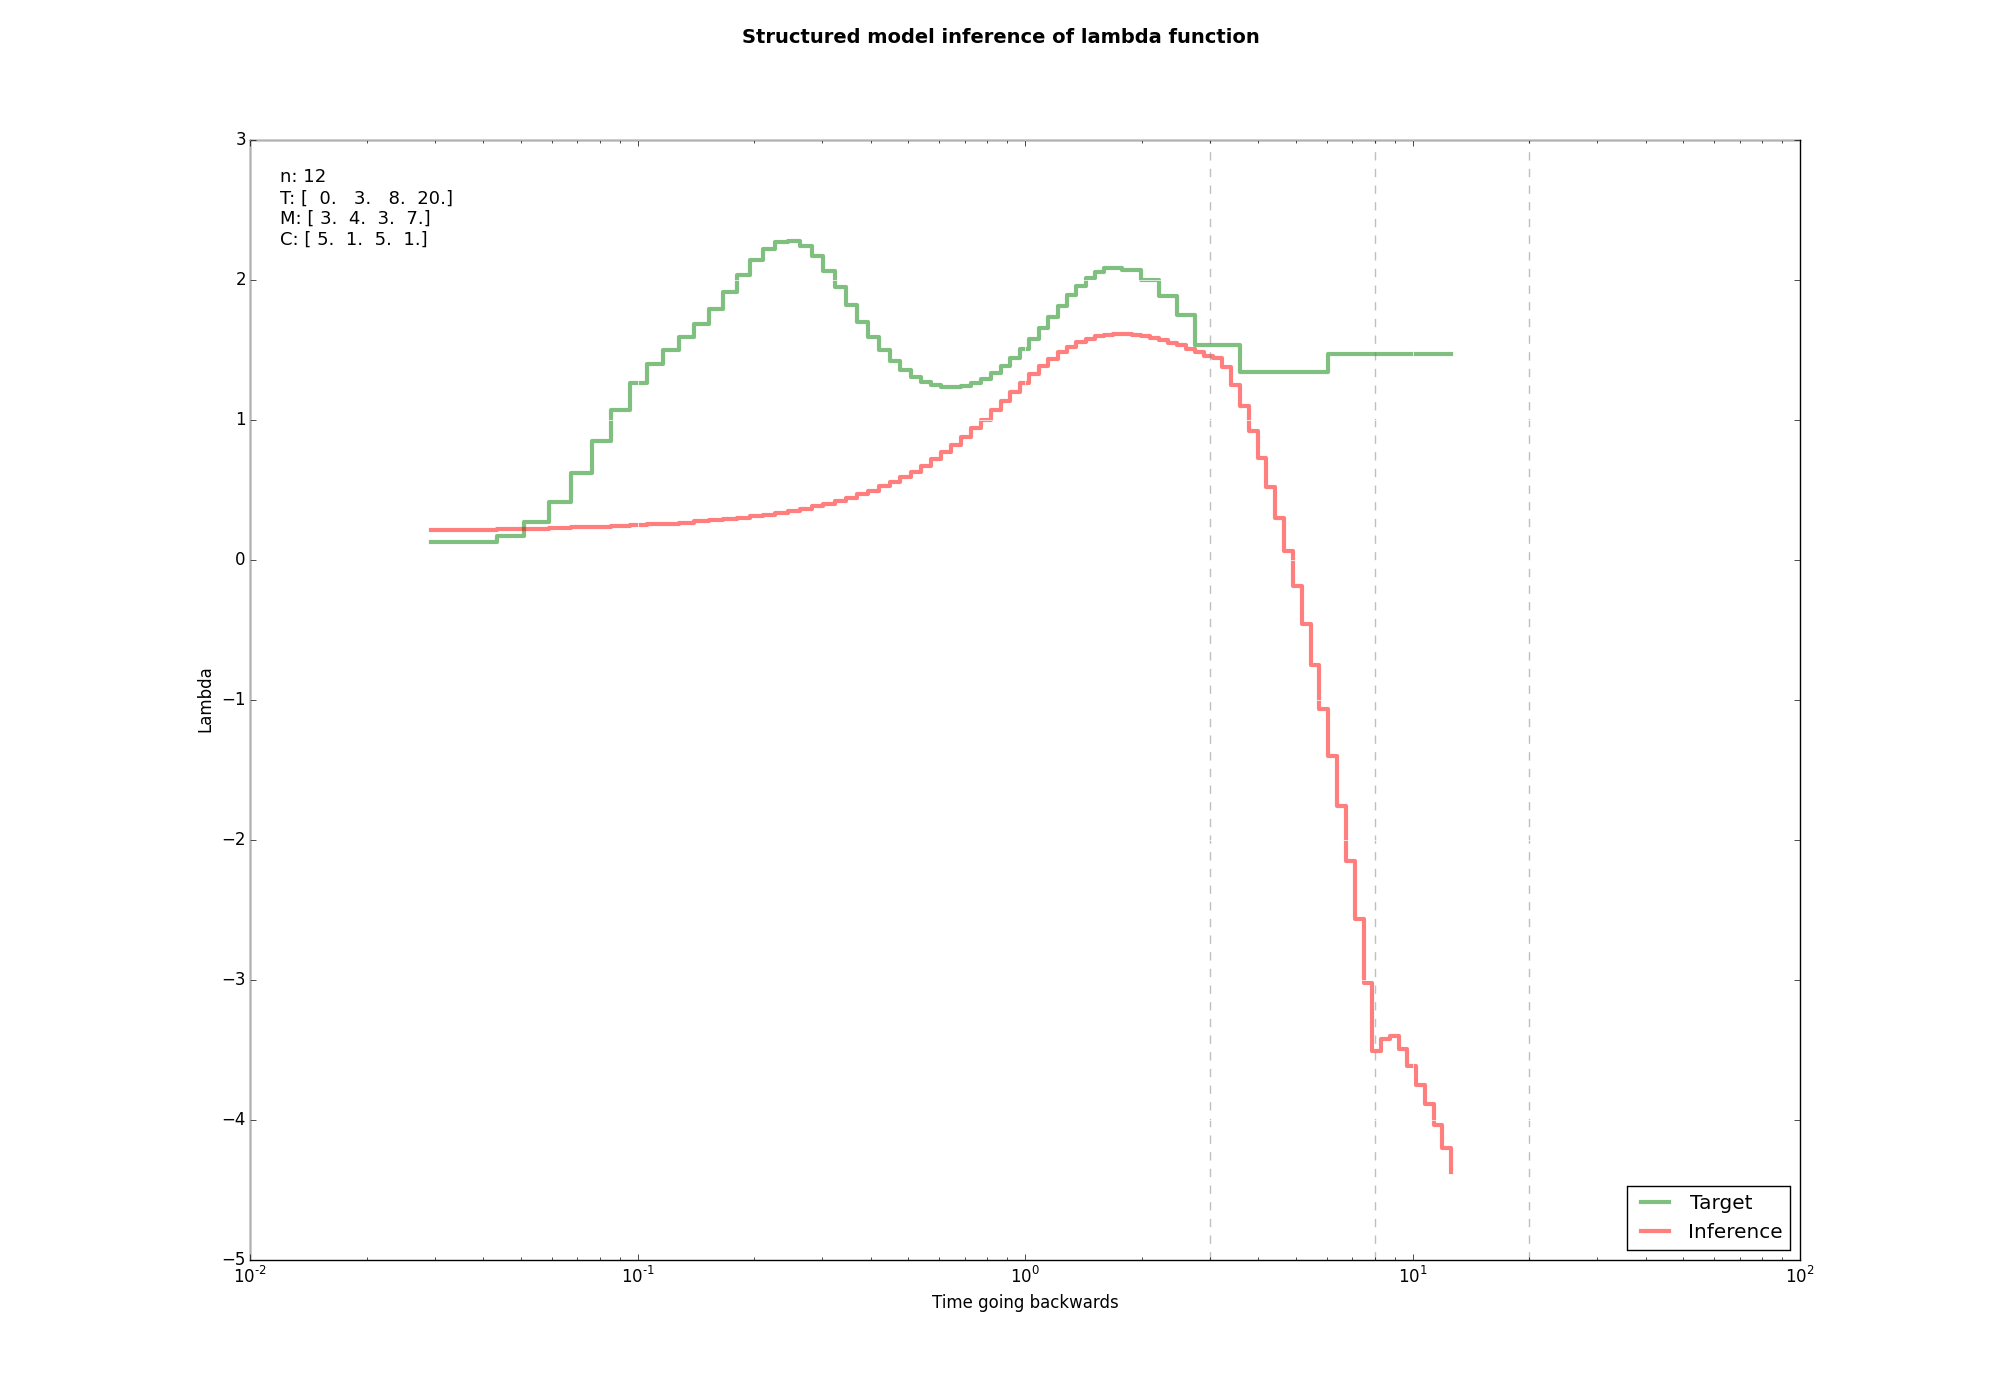
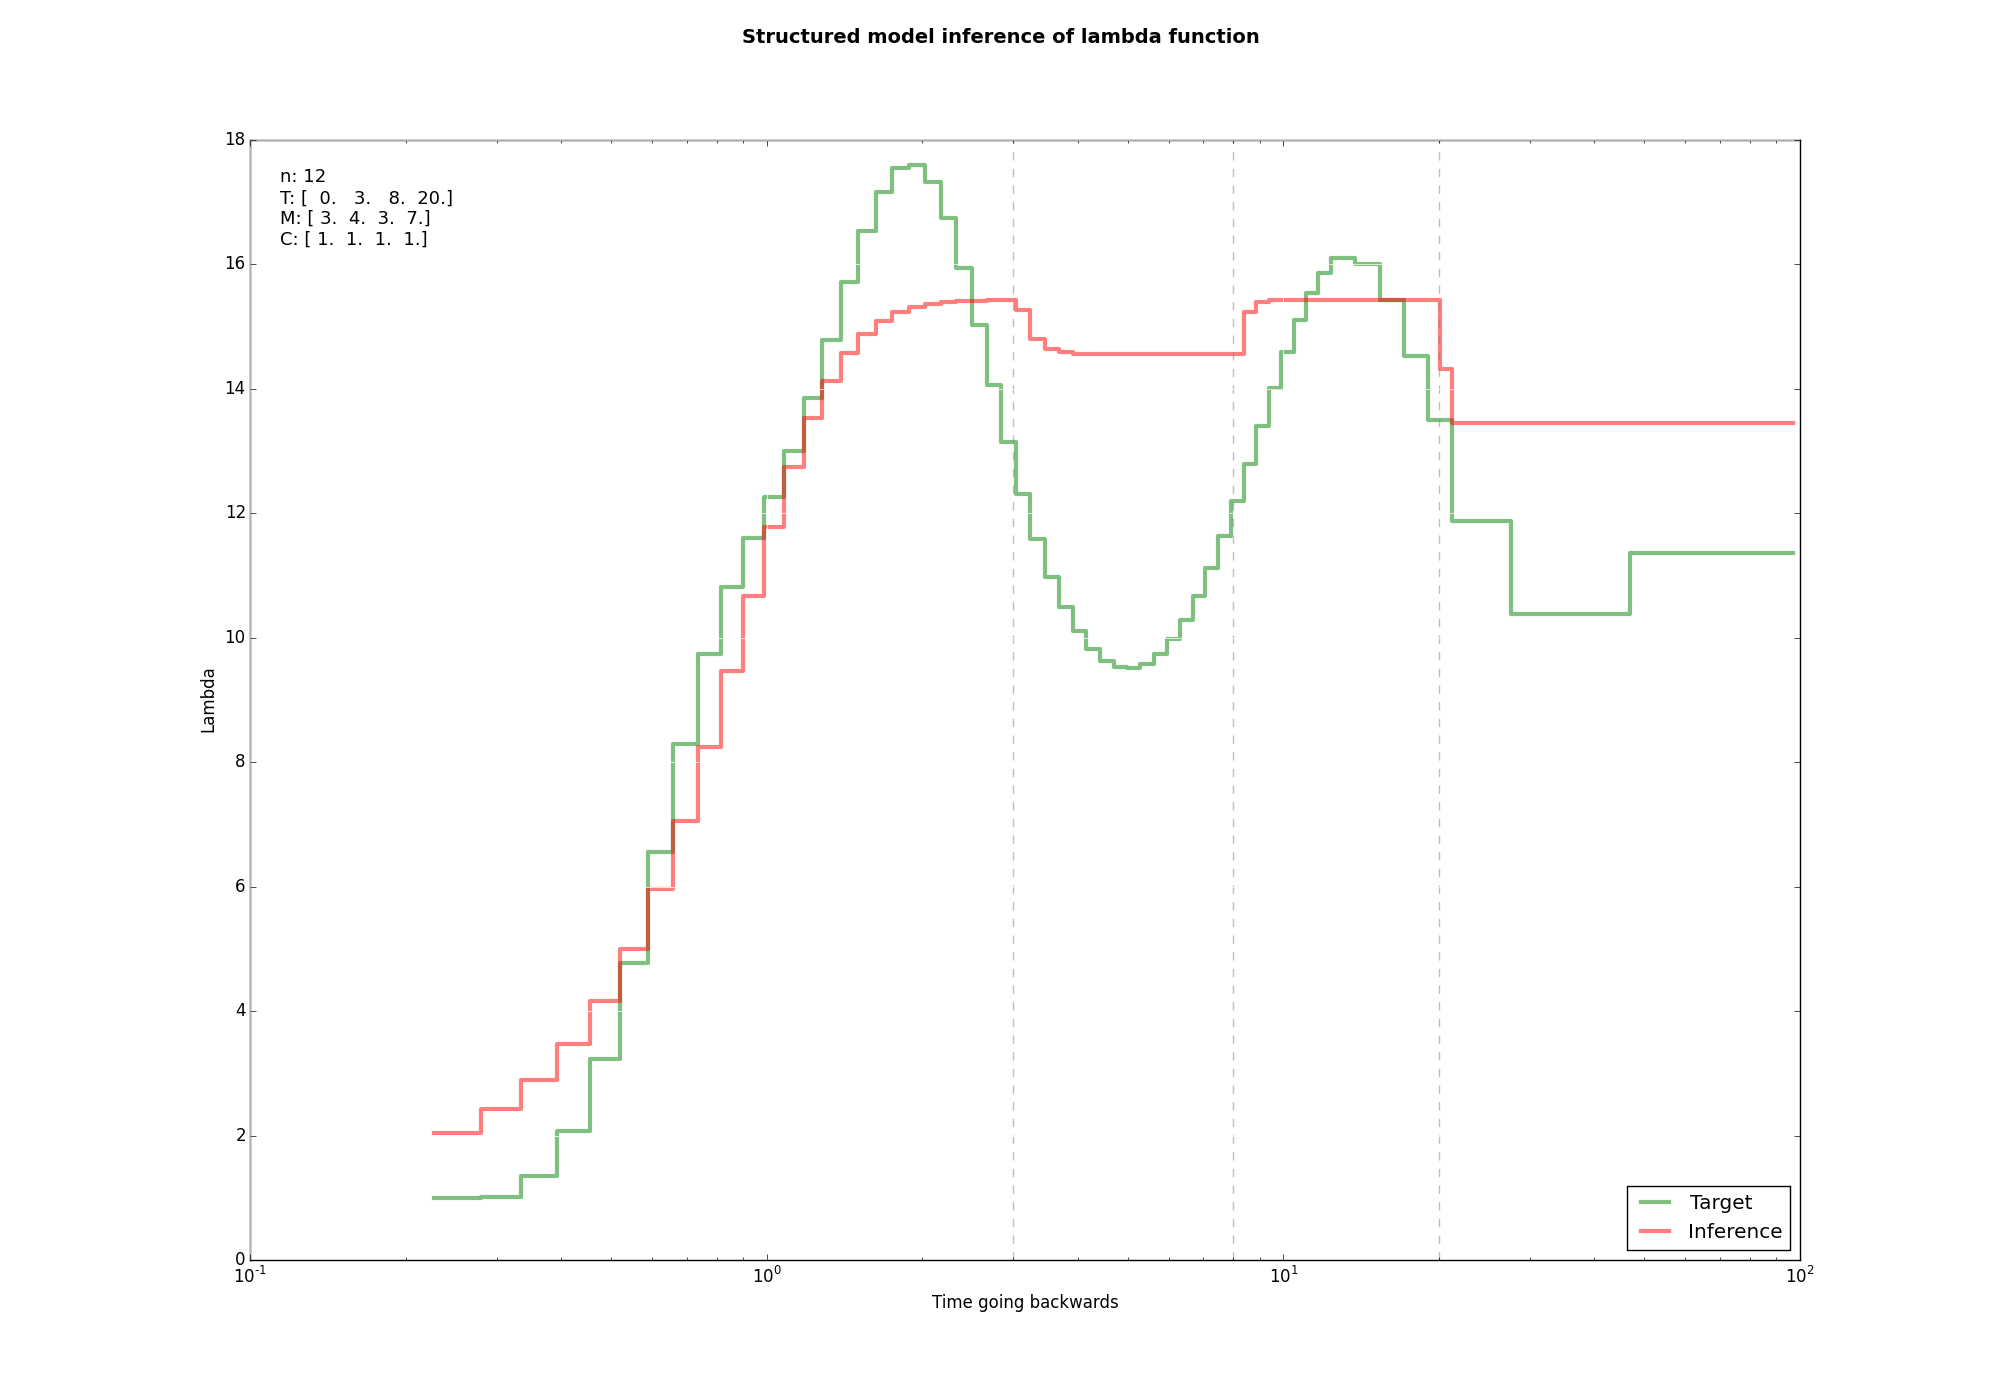
Can normalize with the manual.py script

diff --git a/manual.py b/manual.py
@@ -8,10 +8,14 @@ parser = argparse.ArgumentParser()
 
 # Version
 parser.add_argument('-v', '--version', action='version',
-                    version='%(prog)s 1.0')
+                    version='%(prog)s 1.1')
 # PSMC file
 parser.add_argument('file', type=str,
                       help='Pathname of directory to analyze.')
+# Normalization
+parser.add_argument('-l', action='store', dest='normalize', type=bool,
+                    help='Normalize the PSMC data so that the first lambda is 1.')
+
 # Islands
 parser.add_argument('-n', action='store',
                     dest='islands', type=int, help='Number of islands.')
@@ -25,8 +29,8 @@ parser.add_argument('-M', nargs='+', dest='rates',
 parser.add_argument('-C', nargs='+', dest='sizes',
                     help='Population sizes.', type=float)
 # Plot and JSON
-parser.add_argument('-k', action='store', dest='keep', type=str,
-                    default='False',
+parser.add_argument('-k', action='store', dest='keep', type=bool,
+                    default=False,
                     help="""Set to True to save the fit as a plot and a
                             JSON file.""")
 # Outfile
@@ -41,19 +45,20 @@ data.columns = ('times', 'lambdas')
 times, lambdas = tools.search_increase(list(data['times']),
                                        list(data['lambdas']))
 
-# Normalize the vectors
-#l0 = 1 / lambdas[0]
-#times = [t * l0 for t in times]
-#lambdas = [l * l0 for l in lambdas]
-
 # Verify the user input
-assert len(parameters.times) == len(parameters.rates), 'There has to be as many times as rates.'
+assert len(parameters.times) == len(parameters.rates), 'There has to be as many times as there are rates.'
+
+# Normalize the vectors
+if parameters.normalize is True:   
+    l0 = 1 / lambdas[0]
+    times = [t * l0 for t in times]
+    lambdas = [l * l0 for l in lambdas]
 
 # Build the model
 m = model.StSICMR(parameters.islands, parameters.times, parameters.rates, parameters.sizes)
 
 # Plot
-if parameters.keep == 'True':
+if parameters.keep is True:
     if parameters.outfile is None:
         path = parameters.file.split('/')
         file = path[-1].split('.')[0]

diff --git a/README.md b/README.md
@@ -94,6 +94,7 @@ The other script called ``manual.py`` is for visualizing a model with user-defin
 
 | Argument | Name            |
 |----------|-----------------|
+| -l       | Normalization   |
 | -n       | Islands         |
 | -T       | Switch times    |
 | -M       | Migration rates |
@@ -137,7 +138,7 @@ python infer.py examples/example2.csv -s 3 -g 100 -m integral -k True -o example
 
 ![Second example](http://i.imgur.com/kxyBi7l.png)
 
-### Fourth example - Manual
+### Fourth example - Islands can change size
 
 You can also try to fit the model to the PSMC curve yourself. Make sure to give the same number of times (T) and migration rates (M). Don't forget that the first time is always ``0``.
 
